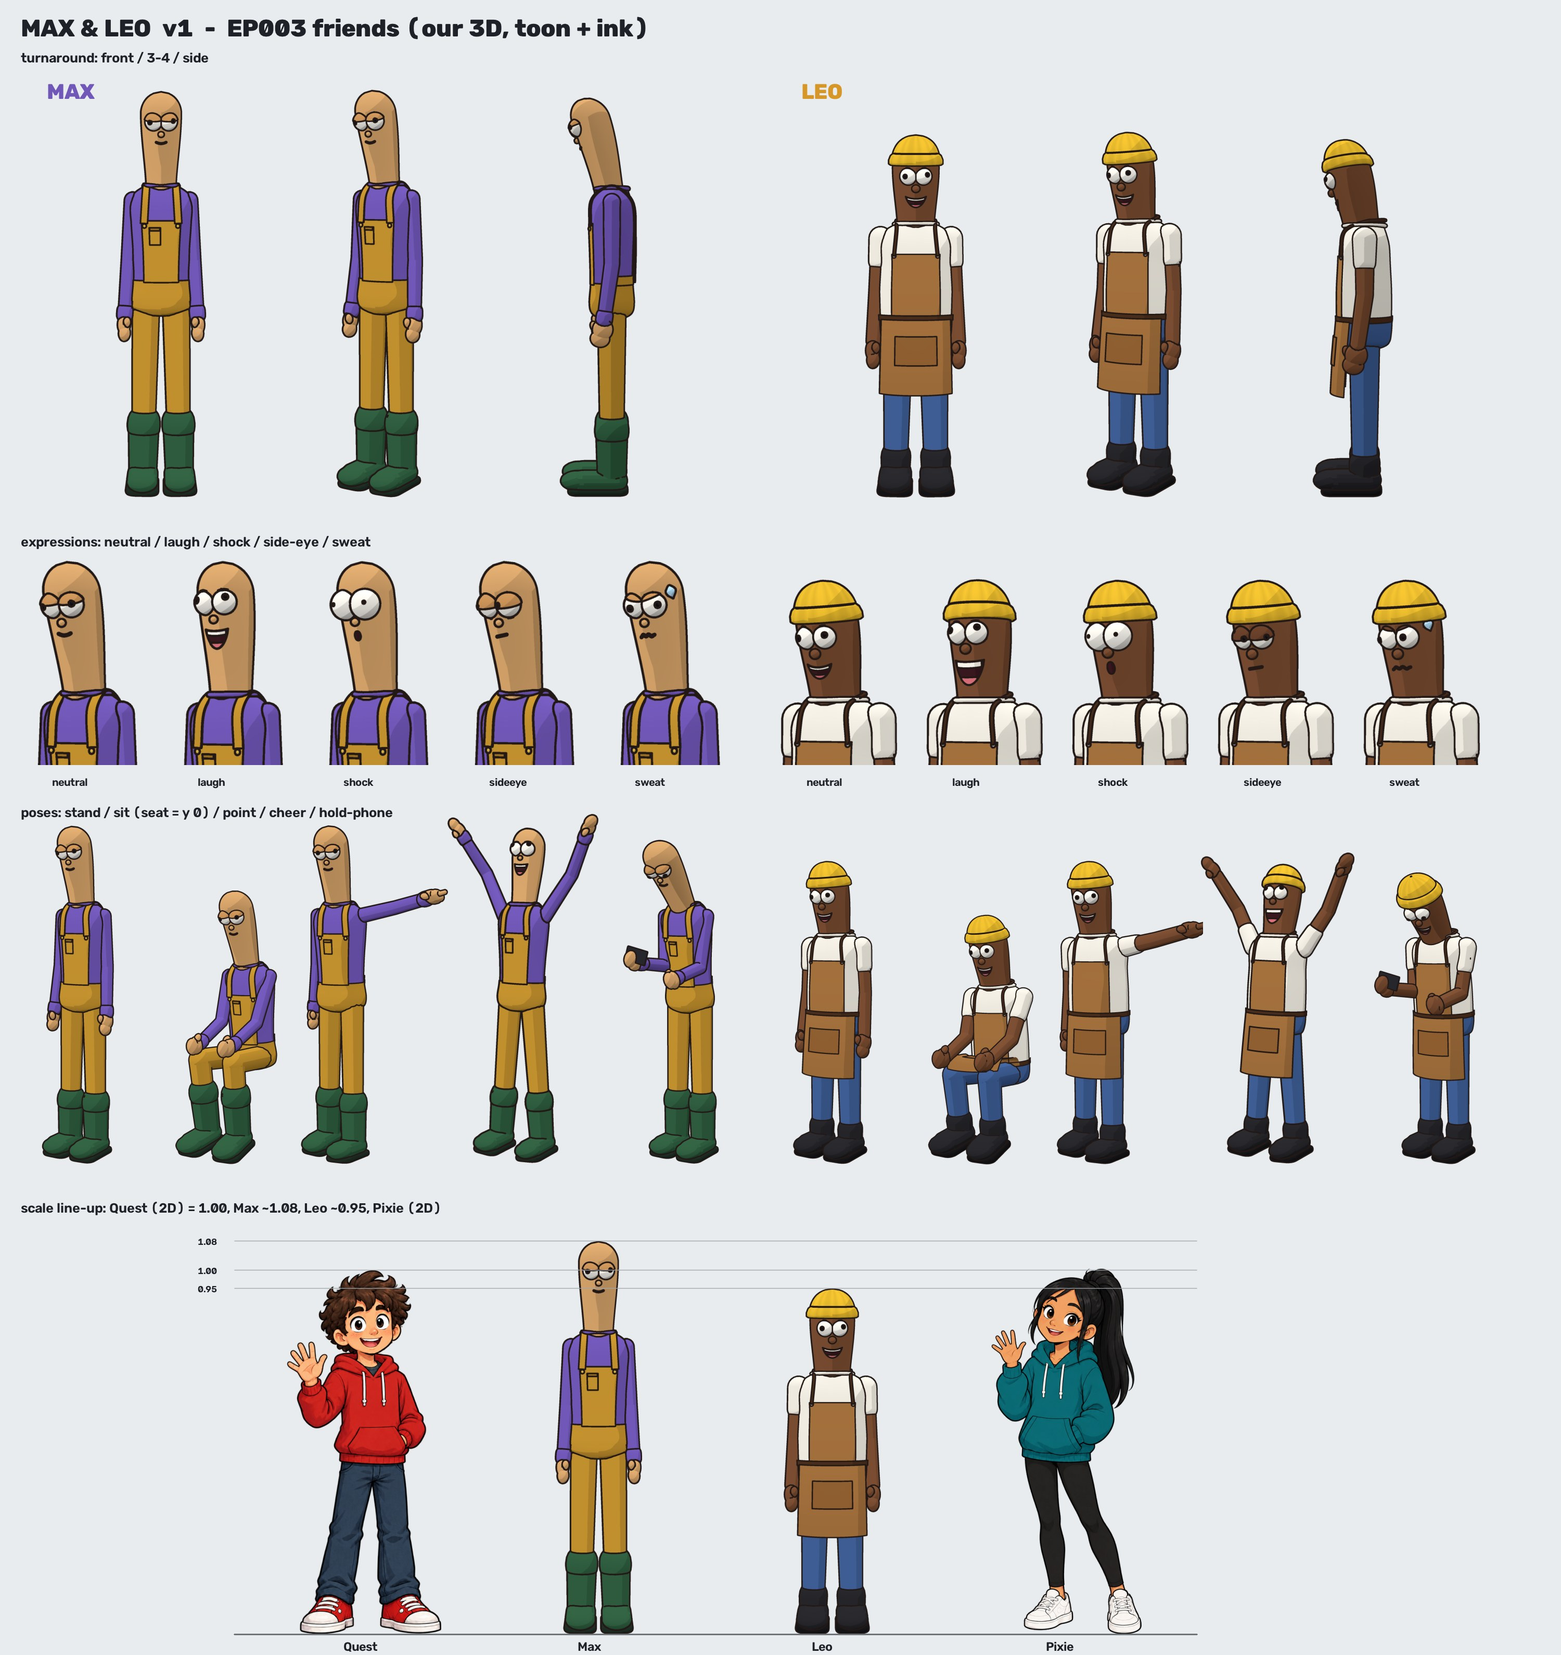
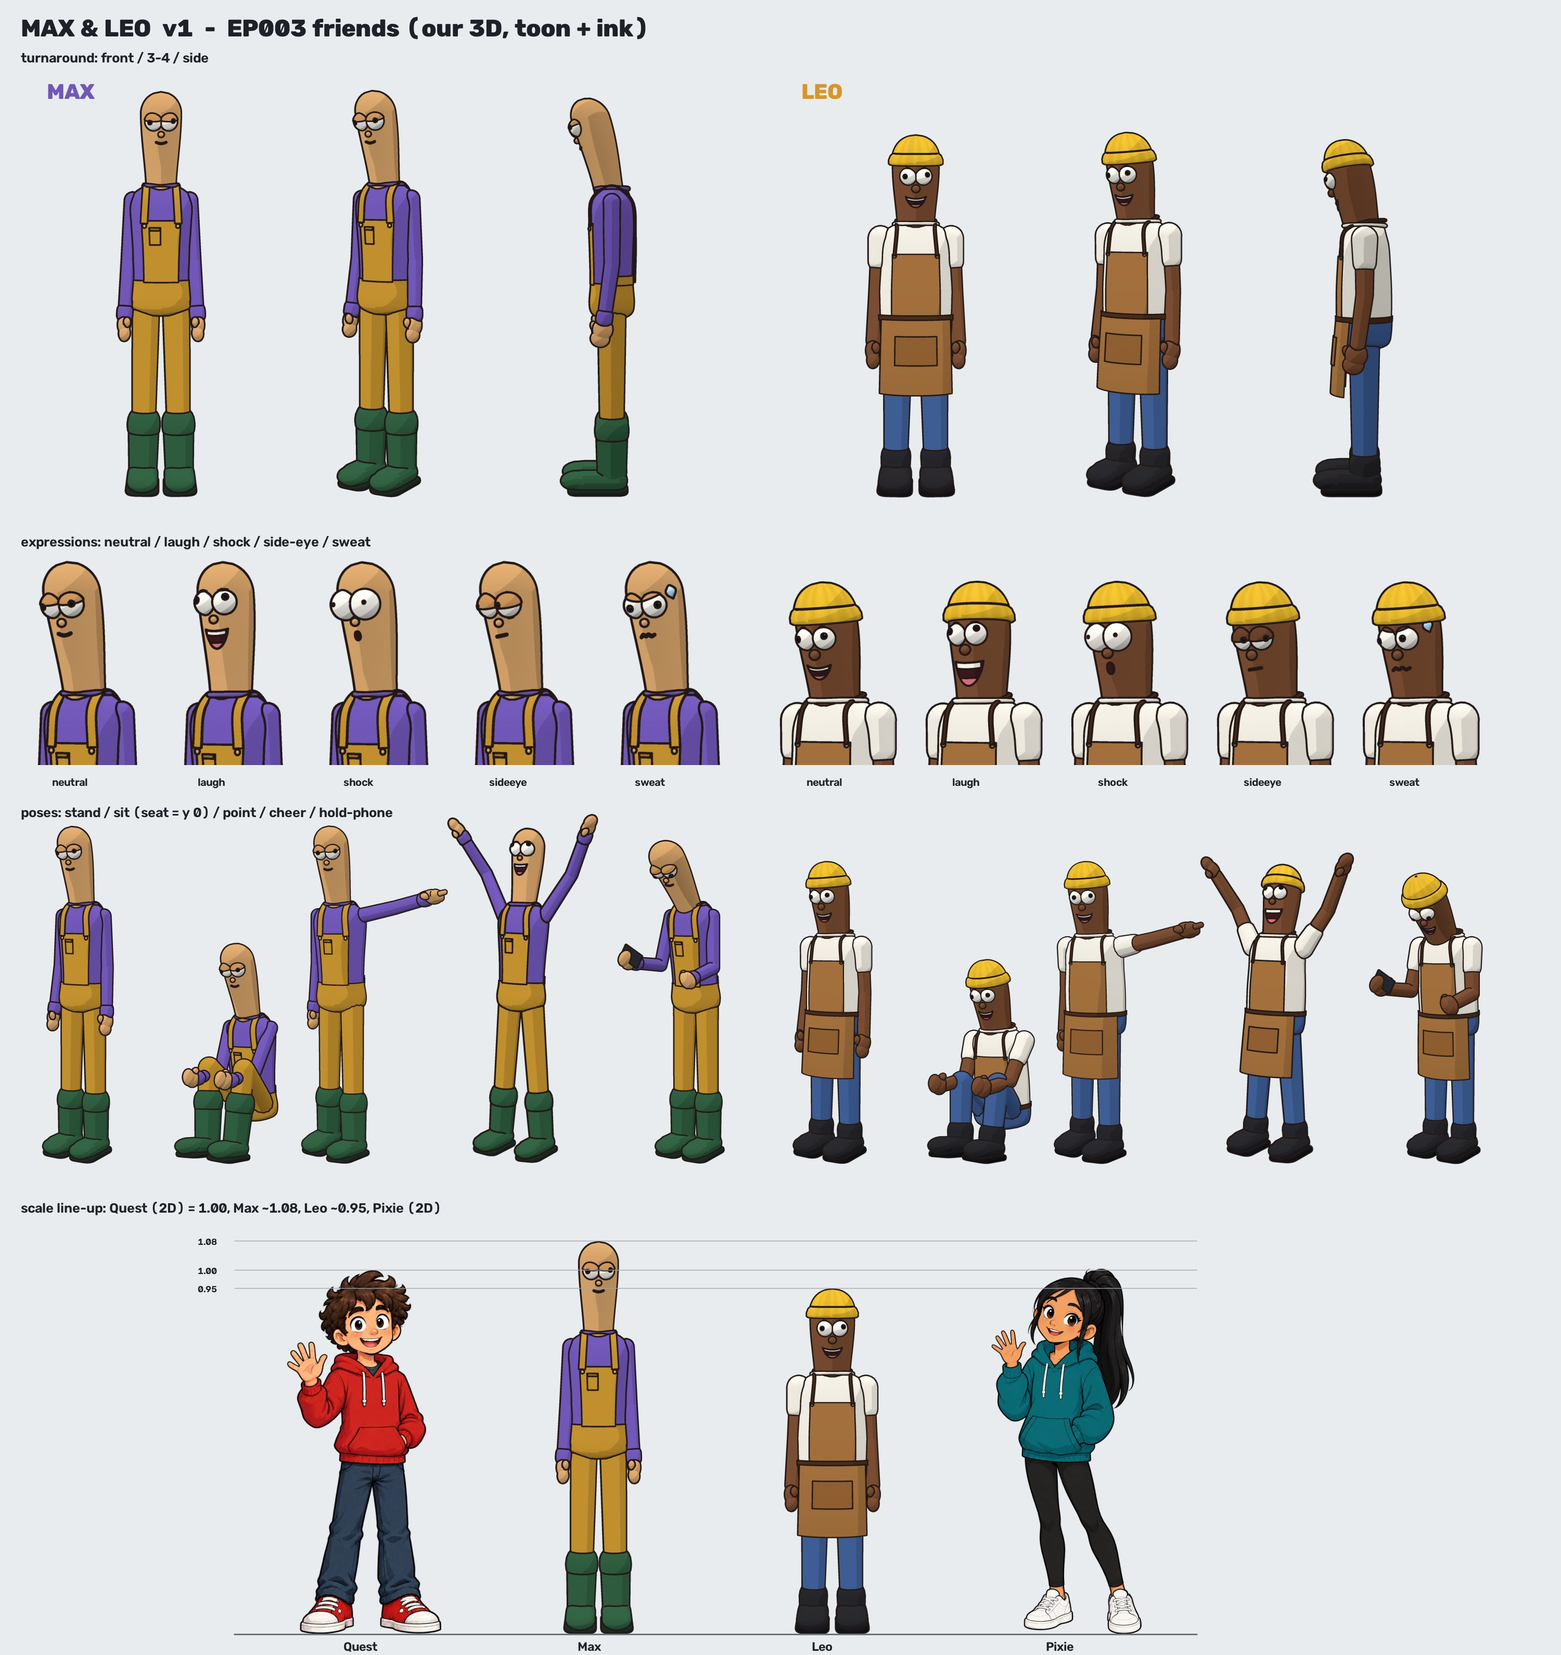
EP003 friends Max and Leo v1: our procedural worm people (toon + ink), 5 expressions x 5 poses, render jobs friends / friends_sheet, design sheet + spec
Max (purple, tall calm, mustard overalls, green rubber boots) and Leo (yellow beanie, short loud, white tee, brown
apron, jeans): one capsule head-neck, googly eyes with lids, projected mouth decals; setExpr/setPose via shot.max /
shot.leo (+ optional placement 'at'). Seated knees-up pose fits the rowboat thwart. 50 transparent cut-outs in
public/art/ep003/props3d (not in git), sheet docs/ep003/characters/FRIENDS_MAX_LEO_v1.jpg, spec FRIENDS_MAX_LEO.md.
Renderer: meshes rebuilt per shot keep their material across passes.

Claude-Session: https://claude.ai/code/session_01Bi3PXNKGSfsqTH99bT8fk5

diff --git a/secondquest/tools/props3d/scene.ts b/secondquest/tools/props3d/scene.ts
@@ -14,7 +14,7 @@ import * as THREE from 'three';
 
 type V3 = [number, number, number];
 interface FishExpr { lid?: number; look?: [number, number]; mouth?: 'pout' | 'o' | 'flat'; sweat?: boolean }
-interface Shot { camera: V3; target: V3; fov?: number; cart?: { y: number; x?: number; z?: number; tilt?: number } | null; pose?: number; fish?: FishExpr; max?: { expr?: string; pose?: string }; leo?: { expr?: string; pose?: string }; boat?: 'back' | 'front'; hide?: number[]; near?: number; far?: number }
+interface Shot { camera: V3; target: V3; fov?: number; cart?: { y: number; x?: number; z?: number; tilt?: number } | null; pose?: number; fish?: FishExpr; max?: FriendShot; leo?: FriendShot; boat?: 'back' | 'front'; hide?: number[]; near?: number; far?: number }
 type Poly = { outer: [number, number][]; holes: [number, number][][] };
 interface Params { shield?: Record<string, Poly[]>; variant?: 'classic' | 'faithful'; width: number; height: number; shots: Shot[]; props: string[]; cartTexture?: string; cartOutline?: [number, number][]; light?: 'room_night' | 'neutral' }
 declare global { interface Window { PARAMS: Params } }
@@ -2278,6 +2278,8 @@ const outboardOnBoat = () => { const o = outboard(); o.position.set(-153.5, 50, 
  * limbs, mitten hands, chunky boots. Built in our toon ramp + ink like fish v2; clothes are lightly faceted.
  * Every friend has a skeleton (pelvis > chest > head / shoulders > elbows > wrists, hips > knees) driven by
  * g.userData.setPose(name) and a face driven by g.userData.setExpr(name | FriendFace); shot.max / shot.leo = { expr, pose }. */
+/** shot.max / shot.leo: pose, expression and an optional placement [x, y, z, yaw] (e.g. on a rowboat thwart). */
+interface FriendShot { expr?: string; pose?: string; at?: [number, number, number, number] }
 interface FriendFace { lid?: number; low?: number; tilt?: number; look?: [number, number]; goofy?: number; eye?: number; pupil?: number;
   mouth?: 'smile' | 'flat' | 'grin' | 'open' | 'o' | 'wobble'; sweat?: boolean; nod?: number }
 interface WormSpec {
@@ -2290,6 +2292,8 @@ interface WormSpec {
   outfit: 'overalls' | 'apron'; hat?: 'beanie'; faces: Record<string, FriendFace>;
 }
 const WORM_POSES = ['stand', 'sit', 'point', 'cheer', 'phone'] as const;
+// seated knees-up (a rowboat thwart is ~22 cm above the floorboards): thighs rise ~39 deg, shins near vertical
+const SIT_HIP = -2.25, SIT_KNEE = 2.12;
 
 const worm = (S: WormSpec) => {
   const root = new THREE.Group();
@@ -2339,7 +2343,9 @@ const worm = (S: WormSpec) => {
     for (let i = 0; i <= 6; i++) { const a = -Math.PI / 2 + i / 6 * Math.PI / 2; pts.push([r1 * Math.cos(a), -len + r1 * Math.sin(a)]); }
     for (let i = 0; i <= 6; i++) { const a = i / 6 * Math.PI / 2; pts.push([r0 * Math.cos(a), r0 * Math.sin(a)]); }
     pts[0][0] = 0; pts[pts.length - 1][0] = 0;
-    return lathe(pts.map(([r, y]) => [Math.max(r, 1e-3), y] as [number, number]), seg, mat, part);
+    const m = lathe(pts.map(([r, y]) => [Math.max(r, 1e-3), y] as [number, number]), seg, mat, part);
+    m.geometry.rotateY(Math.PI);                                              // lathe seam to the back (no crease tick in front)
+    return m;
   };
   const ellip = (r: number, sc: V3, pos: V3, mat: THREE.Material, part: number, seg = 18) => {
     const m = mesh(new THREE.SphereGeometry(r, seg, Math.round(seg * .7)), mat, part); m.scale.set(...sc); m.position.set(...pos); return m;
@@ -2520,9 +2526,7 @@ const worm = (S: WormSpec) => {
     if (S.outfit !== 'apron') return;
     if (skirt) { chest.remove(skirt); skirt.geometry.dispose(); ids.splice(ids.indexOf(skirt), 1); }
     const yw = S.waist - .8, P0 = 1.05;
-    const path = sit
-      ? [[0, 0], [-(yw - S.legR - 1.4) * .75, .6], [-(yw - S.legR - 1.4), 3.5], [-(yw - S.legR - 1.4), 13], [-(yw - S.legR - 1.4), 21], [-(yw - S.legR - 1.4) - 6, 26.5]].map(([y, z]) => V(0, y + (z > 2 ? z * .16 + 2.4 : 0), z))
-      : [V(0, 0, 0), V(0, -10, .9), V(0, -22, 1.9), V(0, -34, 2.6)];
+    const path = [V(0, 0, 0), V(0, -10, .9), V(0, -22, 1.9), V(0, -34, 2.6)];
     const pc = new THREE.CatmullRomCurve3(path);
     const geo = grid(range(0, 1, 16), range(-P0, P0, 20), (s, phi) => {
       const top = torsoPt(phi, yw, .8 + .2 * Math.cos(phi)), d = pc.getPoint(s);
@@ -2531,6 +2535,7 @@ const worm = (S: WormSpec) => {
     orient(geo, (p) => V(0, sit ? .6 : 0, 1).add(V(p.x * .05, 0, 0)));
     const m = new THREE.MeshToonMaterial({ color: new THREE.Color('#a4713d'), gradientMap: ramp, vertexColors: true, flatShading: true, side: THREE.DoubleSide });
     skirt = mesh(geo, m, id(37)); chest.add(skirt);
+    skirt.visible = !sit;                                                     // seated knees-up: the skirt lies hidden in the lap
   };
   const apronPocket = S.outfit === 'apron' ? (() => { const g = new THREE.Group(); chest.add(g); return g; })() : null;
   const setPocket = (sit: boolean) => {
@@ -2543,7 +2548,7 @@ const worm = (S: WormSpec) => {
     const geo = grid(range(s0, s1, s1 - s0), range(5, 15, 10), (i, j) => ({ p: at_(i, j) }));
     orient(geo, (p) => V(0, sit ? .6 : 0, 1).add(V(p.x * .05, 0, 0)));
     const m = new THREE.MeshToonMaterial({ color: new THREE.Color('#8f5f31'), gradientMap: ramp, flatShading: true, side: THREE.DoubleSide });
-    apronPocket.add(mesh(geo, m, id(38)));
+    apronPocket.add(mesh(geo, m, id(38))); apronPocket.visible = !sit;
   };
 
   // ---- expressions
@@ -2590,9 +2595,9 @@ const worm = (S: WormSpec) => {
     rest();
     const [AL, AR] = arms, [LL, LR] = legs;
     if (name === 'sit') {
-      for (const G of legs) { G.hip.rotation.set(-1.62, 0, G.sd * .09); G.kn.rotation.set(1.78, 0, 0); }
+      for (const G of legs) { G.hip.rotation.set(SIT_HIP, 0, G.sd * .1); G.kn.rotation.set(SIT_KNEE, 0, 0); }
       chest.rotation.x = .1;
-      for (const A of arms) { aim(A.sh, -A.sd * .07, -.85, .5); A.el.rotation.set(-.75, 0, 0); A.wr.rotation.set(-.2, 0, 0); }
+      for (const A of arms) { aim(A.sh, -A.sd * .08, -.8, .6); A.el.rotation.set(-.95, 0, 0); A.wr.rotation.set(-.2, 0, 0); }
       poseNod = .02;
     } else if (name === 'point') {
       aim(AL.sh, .86, .16, .48); AL.el.rotation.set(-.05, 0, 0); AL.wr.rotation.set(0, 0, 0);
@@ -2605,8 +2610,8 @@ const worm = (S: WormSpec) => {
       chest.rotation.x = -.06; poseNod = -.22; poseLook = [.35, 0];
       for (const G of legs) G.hip.rotation.set(0, 0, G.sd * .08);
     } else if (name === 'phone') {
-      AR.sh.rotation.set(-.32, 0, .12); AR.el.rotation.set(-1.45, .25, 0); AR.wr.rotation.set(-.15, 0, -.2);
-      AL.sh.rotation.set(-.25, 0, -.06); AL.el.rotation.set(-1.25, -.35, 0); AL.wr.rotation.set(0, 0, .3);
+      AR.sh.rotation.set(-.32, 0, -.12); AR.el.rotation.set(-1.45, .25, 0); AR.wr.rotation.set(-.15, 0, -.2);
+      AL.sh.rotation.set(-.25, 0, .1); AL.el.rotation.set(-1.25, -.35, 0); AL.wr.rotation.set(0, 0, .3);
       phoneG.visible = true; phoneG.position.set(S.handR * .45, -S.handR * 1.25, S.handR * .6); phoneG.rotation.set(-1.45, .0, Math.PI / 2 + .1);
       chest.rotation.x = .1; poseNod = .38; poseLook = [-.9, .05];
     }
@@ -2652,7 +2657,7 @@ const friendMax = () => worm({
 const friendLeo = () => {
   const g = worm({
     base: 3100, hipY: 74, waist: 7, bibTop: 36,
-    torso: [[-7.5, 0, 0], [-7, 7.5, 7], [-4, 15.6, 11.4], [0, 17.2, 12.2], [8, 17.6, 12.6], [20, 17.6, 12.6], [32, 17.2, 12], [41, 17.6, 11.5], [45.5, 16, 10.4], [48.5, 12.4, 9.4], [50, 9.4, 9], [50.3, 9.2, 8.9]],
+    torso: [[-7.5, 0, 0], [-7, 7.5, 7], [-4, 15.6, 11.4], [0, 17.2, 12.2], [8, 17.6, 12.6], [20, 17.6, 12.6], [32, 17.0, 12], [41, 16.8, 11.3], [45.5, 15.4, 10.2], [48.5, 12.4, 9.4], [50, 9.4, 9], [50.3, 9.2, 8.9]],
     headL: 40, headR: 10.6, neckR: 8.4, zs: .95, bend: 3.4, lean: .15, eyeR: 3.9, eyeY: 25.5, eyeX: 3.75, noseR: 1.8, mouthY: 15.5, mouthW: 9.5,
     armR: 4.2, shX: 16.4, shY: 43.5, upperL: 25, foreL: 23, handR: 5.4,
     legR: 7, hipX: 8.2, thighL: 33, shinL: 33, footL: 27,
@@ -2732,7 +2737,8 @@ function draw() {
     }
     if (props.horse && shot.pose != null) setGallop(shot.pose);
     if (props.fish2) props.fish2.userData.setExpr(shot.fish ?? {});
-    for (const [k, s] of [['friendMax', shot.max], ['friendLeo', shot.leo]] as const) if (props[k]) { props[k].userData.setPose(s?.pose ?? 'stand'); props[k].userData.setExpr(s?.expr ?? 'neutral'); }
+    for (const [k, s] of [['friendMax', shot.max], ['friendLeo', shot.leo]] as const) if (props[k]) { props[k].userData.setPose(s?.pose ?? 'stand'); props[k].userData.setExpr(s?.expr ?? 'neutral');
+      const [ax, ay, az, yaw] = s?.at ?? [0, 0, 0, 0]; props[k].position.x = ax; props[k].position.y += ay; props[k].position.z = az; props[k].rotation.y = yaw; }
     // rowboat layers for characters seated inside: 'back' = far side + interior, 'front' = near hull side, rail and oar
     if (props.rowboat) props.rowboat.traverse((o: THREE.Object3D) => { if (o.userData.half) o.visible = !shot.boat || o.userData.half === shot.boat; });
     ids.forEach((m) => { if (!saved.has(m)) saved.set(m, m.material); });   // meshes rebuilt per shot (friends' mouths, apron)

diff --git a/secondquest/tools/props3d/render.py b/secondquest/tools/props3d/render.py
@@ -652,15 +652,16 @@ FRIEND_VIEWS = {'34': (30, 6), 'front': (0, 4), 'side': (90, 4), 'back': (180, 6
 
 def friend_span(who, pose):
     """Height in cm covered by the canvas (h px) for this pose: px per cm = h / span."""
-    return FRIENDS[who][1] * {'sit': .98, 'cheer': 1.38}.get(pose, 1.12)
+    return FRIENDS[who][1] * {'sit': 1.06, 'cheer': 1.38}.get(pose, 1.12)
 
 
-def friend_render(who, view='34', expr='neutral', pose='stand', w=1000, h=1500, line=4.4):
+def friend_render(who, view='34', expr='neutral', pose='stand', w=None, h=1500, line=4.4):
     """One friend, one view/expression/pose, transparent RGBA at w x h (the figure fills ~88 % of the height)."""
     prop, tall = FRIENDS[who]
     yaw, elev = FRIEND_VIEWS[view]
+    w = w or (1700 if pose == 'point' else 1150 if pose in ('cheer', 'phone') else 1000)   # room for reaching arms
     sit = pose == 'sit'
-    ty = tall * (.13 if sit else .62 if pose == 'cheer' else .5)       # seated: the seat is y = 0
+    ty = tall * (.16 if sit else .62 if pose == 'cheer' else .5)       # seated: the seat is y = 0
     span = friend_span(who, pose)
     fov = 26
     d = span / 2 / np.tan(np.radians(fov / 2))
@@ -668,8 +669,10 @@ def friend_render(who, view='34', expr='neutral', pose='stand', w=1000, h=1500, 
     shot = {'camera': orbit(yaw, elev, d, tgt), 'target': tgt, 'fov': fov, 'cart': None, 'near': d * .3, 'far': d * 3,
             who: {'expr': expr, 'pose': pose}}
     for _ in range(3):
-        img = render({'props': [prop], 'shots': [shot], 'light': 'neutral'}, w, h, line=line, despeckle=14)[0]
+        img = render({'props': [prop], 'shots': [shot], 'light': 'neutral'}, w, h, line=line, despeckle=34)[0]   # 34: drops crease ticks at bent elbows/knees
         if img[..., 3].any() and not img[[0, -1]][:, [0, -1], 3].all():
+            if img[:, [0, -1], 3].any() or img[[0, -1], :, 3].any():
+                print(f'WARNING {who} {view} {expr} {pose}: the figure touches the canvas edge (cropped)')
             return img
     raise RuntimeError(f'{who} {view} {expr} {pose} rendered empty')
 

diff --git a/secondquest/docs/ep003/characters/FRIENDS_MAX_LEO.md b/secondquest/docs/ep003/characters/FRIENDS_MAX_LEO.md
@@ -1,0 +1,86 @@
+# Max and Leo: EP003 friends (our 3D), v1
+
+The two recurring friends in the boat chat ("The boat": Quest, Pixie, **Max**, **Leo**) are built as our own
+procedural 3D characters in `tools/props3d` and rendered in the house toon style: the 3-tone ramp plus ink outlines
+from `render.py`, the same pipeline as fish v2. They stand next to the 2D Quest and Pixie.
+
+- Design sheet: `docs/ep003/characters/FRIENDS_MAX_LEO_v1.jpg` (turnaround, expressions, poses, scale line-up).
+- Model: `tools/props3d/scene.ts` → `worm()`, `friendMax()`, `friendLeo()` (part ids 3000–3040 and 3100–3140).
+- Jobs: `python3 tools/props3d/render.py friends` (50 cut-outs) and `friends_sheet` (the sheet).
+- Cut-outs (transparent PNG, not in git, archived with the episode's art):
+  `public/art/ep003/props3d/`
+  - standing: `<who>_<34|front>_<neutral|laugh|shock|sideeye|sweat>.png`, `<who>_side_neutral.png`
+  - poses: `<who>_sit_34_<all 5 expressions>.png`, `<who>_sit_front_neutral.png`, `<who>_sit_side_<neutral|laugh>.png`,
+    `<who>_point_<34|front>_neutral.png`, `<who>_cheer_<34|front>_laugh.png`, `<who>_phone_<34|front>_neutral.png`
+  - `who` = `max` | `leo`. The 3/4 view sees the character's left side (flip the PNG for the other side).
+
+## The characters
+
+| | **Max** (purple) | **Leo** (yellow) |
+|---|---|---|
+| Role | tall, lanky, calm | shorter, chunkier, loud ("I'll get it later") |
+| Height | ≈ 180 cm model, **1.08 × Quest** | ≈ 158 cm with beanie, **0.95 × Quest** |
+| Head | tall narrow capsule (46 × 18 cm), tan `#d9a66c`, bald | shorter, wider capsule (40 × 21 cm), dark brown `#7a4d32` |
+| Hat | none | yellow knit beanie `#f2c230`, ribbed, folded cuff |
+| Top | purple long sleeves `#7158b8` with cuffs | white tee `#f1ede2`, short sleeves |
+| Outfit | mustard-ochre bib overalls `#c4922f`: two straps over the shoulders crossing to the back waist, brass buttons, chest pocket with flap | brown canvas work apron `#a4713d`: bib, dark waist tie, neck cord, skirt with a patch pocket, over blue jeans `#3f5f96` |
+| Boots | dark green rubber boots up the shin, rolled lip | black work boots |
+| Default face | sleepy lids (0.42), small smile | wide eyes, big open grin with teeth and tongue |
+
+Palette ties to the chat colours of the episode (`--max: #7860be`, `--leo: #d69628` in the Hyperframes blocks):
+Max reads purple, Leo reads yellow (the beanie) at any size.
+
+## Driving them from a shot
+
+`shot.max` / `shot.leo` = `{ expr, pose, at? }` (like `shot.fish` for fish v2):
+
+- `expr`: `neutral`, `laugh` (mouth wide open, head back), `shock` (eyes 1.22×, pupils half size, "o" mouth),
+  `sideeye` (half lids, both pupils to one side, flat mouth), `sweat` (worried tilted lids, wobbly mouth, sweat drop).
+  A `FriendFace` object can be passed instead: `lid`, `low`, `tilt`, `look [up, side]`, `goofy`, `eye`, `pupil`,
+  `mouth` (`smile | flat | grin | open | o | wobble`), `sweat`, `nod`.
+- `pose`: `stand`, `sit`, `point` (left arm forward and out, index finger), `cheer` (both arms up), `phone`
+  (phone in the right hand, head and eyes down).
+- `at`: `[x, y, z, yaw]` places the character in a multi-prop render (e.g. on a rowboat thwart).
+
+**Seated convention:** in `sit` the model's y = 0 is the seat (the underside of the thighs). Knees go up (thighs rise
+~39°, shins near vertical) because a rowboat thwart is only ~22 cm above the floorboards; checked in a render with
+the `rowboat` prop (middle thwart at about x = -9, y = 27 cm, facing the stern): both fit the boat at the right scale
+and the feet stay inside the hull. Seated, Leo's apron skirt lies hidden in his lap (bib and tie still show).
+
+## Inspired by the game vs. ours
+
+What we take from *How to Fish* (the idea, so they read as "How to Fish people"):
+- the "worm person" silhouette: head and neck as one soft capsule leaning forward, no ears, bald;
+- big bulging googly eyes sitting on the surface with tiny pupils that don't quite agree; a nose bump; a small mouth;
+- long limp limbs, long arms, simple hands, chunky boots, flat colours;
+- the fishing-town wardrobe types: bib overalls over long sleeves, a work apron, a beanie.
+
+What is ours (the distance):
+- **Rendering:** our toon ramp, ink outlines and smooth shading, not the game's low-poly faceted, textured look.
+  Nothing is taken from the game: no meshes, textures, UVs, rigs or proportions were copied; every shape is our own
+  procedural geometry (lathe capsules, swept straps, projected face decals) written from scratch.
+- **Faces:** our eyes have skin-coloured lids (sleepy, worried, side-eye) and a catchlight; our mouths are drawn
+  decals (smile line, toothy grin with tongue, "o", wobble), designed for comedy beats. The game's faces are fixed.
+- **Outfits and colours:** the game's signature is orange overalls on navy; ours are mustard-ochre on purple (Max)
+  and a brown apron on a white tee with a yellow beanie (Leo), keyed to our chat colours. The cuts are generic
+  workwear (straps crossing to the back, a pocket flap, a neck cord, a ribbed cuffed beanie), not the game's outfits.
+- **Characters:** Max and Leo are our own personalities with their own heights, builds and skin tones; neither is a
+  copy of a game NPC (no names, no specific NPC outfit such as the seller's striped shirt or the old captain).
+- No game screenshot, logo or asset is in the repo or in any output; the reference was studied only.
+
+## Renders
+
+- 50 cut-outs: **about 130 s** on 4 CPUs (4 in parallel, ≈ 10 s per cut-out per core, 1000–1700 × 1500 px canvas,
+  2× supersampled). The sheet job takes about 2 s.
+- Line weight 4.4 at 1500 px height (same on-screen weight as fish v2); `despeckle=34` drops the small crease ticks
+  that bent elbows and knees produce in the normal pass.
+- `friend_render` warns if a figure touches the canvas edge.
+
+## Known limits (v1)
+
+- The face is projected on the capsule front: in a pure side view the mouth reads as a short edge.
+- Hands are mittens (thumb + index finger when pointing); no individual fingers.
+- The phone screen is a flat light-blue card (not a green key colour); swap the colour if a screen insert is needed.
+- Seated: the apron skirt is hidden (lap). In a strict side view Max's near arm covers most of the bib.
+- Leo's apron neck cord is visible behind the head in the side view (a small loop above the collar).
+- The despeckle threshold could also remove a genuine tiny ink detail under ~30 px (none seen in the 50 cut-outs).
